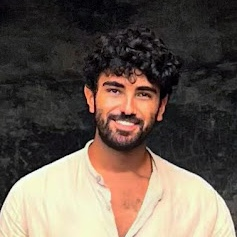
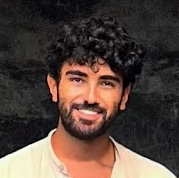
Changed title text and style, add text to FAQ, changed picture sizes.

diff --git a/src/data/faq.ts b/src/data/faq.ts
@@ -3,18 +3,23 @@ import { siteDetails } from "./siteDetails";
 
 export const faqs: IFAQ[] = [
   {
+    question: `What does ${siteDetails.siteName} do exactly?`,
+    answer:
+      "We specialize in partnering with startups that need battery packs. We design and manufacture packs to meet their needs and accelerate their product development.",
+  },
+  {
     question: `Why ${siteDetails.siteName} ?`,
     answer:
-      "We build modular battery packs that fit any form or shape, ditching the generic boxy designs that dominate now. Our immersion-cooled architecture enables faster charging and discharging while acting as a built-in fire suppressant; if a cell fails, heat will not spread to its neighbors, boosting safety. Customers can order online, from a single to 100s of units, by sketching the space and electrical requirements. Our AI-powered design-engine instantly configures, optimizes, and prices a bespoke pack with lead-time.",
+      "We focus on meeting our customers’ specific needs, by delivering battery packs tailored to their unique design requirements, not just generic off-the-shelf solutions. Operating in the North European market, we offer short lead times and a highly responsive service. Our business is built from the ground up to be flexible and scalable, allowing us to adapt quickly and efficiently to varying customer demands. Thanks to our innovative production concept, we can ensure fast delivery, exceptional safety, and high performance, all while maintaining cost-effectiveness.",
   },
   {
     question: `What makes ${siteDetails.siteName} battery pack unique?`,
     answer:
-      "We meet our customer’s need for battery packs that fit their design requirements: to deliver a pack that fits the 			space they have available and not just a generic box. Our innovative production concept also allows rapid delivery, safety and high-performance, while still keeping costs under control. Partnering with an Asian supplier early in the electrification journey is hard. This allows us to build a long-term supplier relationship as their trusted battery pack supplier. The pack must fit the customer's technical requirements, budget, and schedule over their entire product development process.",
+      "We build modular battery packs that fit any form or shape, ditching the generic boxy designs that dominate now. Our immersion-cooled architecture enables faster charging and discharging while acting as a built-in fire suppressant; if a cell fails, heat will not spread to its neighbors, boosting safety.",
   },
   {
-    question: "How does Novex build it’s battery packs?",
-    answer: `It is a secret!`,
+    question: "Is immersion cooling safe and effective?",
+    answer: `Yes, immersion cooling, particularly with Novec is a well-established and reliable method for managing high-performance battery packs. Novec is a non-toxic, fire-suppressing liquid that poses no threat to the ozone layer and has zero global warming potential, making it both safe and environmentally responsible.`,
   },
 ];
 

diff --git a/src/components/Testimonials.tsx b/src/components/Testimonials.tsx
@@ -14,8 +14,8 @@ const Testimonials: React.FC = () => {
                         <Image
                             src={testimonial.avatar}
                             alt={`${testimonial.name} avatar`}
-                            width={50}
-                            height={50}
+                            width={80}
+                            height={80}
                             className="rounded-full shadow-md"
                         />
                         <div className="ml-4">
@@ -23,7 +23,7 @@ const Testimonials: React.FC = () => {
                             <p className="text-sm text-foreground-accent">{testimonial.role}</p>
                         </div>
                     </div>
-                    <p className="text-foreground-accent text-center lg:text-left">&quot;{testimonial.message}&quot;</p>
+                    <p className="text-foreground-accent text-center lg:text-left">{testimonial.message}</p>
                 </div>
             ))}
         </div>

diff --git a/src/components/Hero.tsx b/src/components/Hero.tsx
@@ -25,7 +25,9 @@ const Hero: React.FC = () => {
             </div> */}
 
             <div className="text-center">
-                <h1 className="backdrop-blur-[2px] bg-gradient-to-b text-4xl md:text-6xl md:leading-tight font-bold text-foreground max-w-lg md:max-w-2xl mx-auto">{heroDetails.heading}</h1>
+                <h1 className="whitespace-nowrap backdrop-blur-[2px] bg-gradient-to-b text-3xl md:text-5xl md:leading-tight font-bold text-foreground mx-auto hero-title">
+                    {heroDetails.heading}
+                </h1>
                 <p className="mt-4 text-foreground max-w-lg mx-auto backdrop-blur-[2px] bg-gradient-to-b">{heroDetails.subheading}</p>
                 {/* <div className="mt-6 flex flex-col sm:flex-row items-center sm:gap-4 w-fit mx-auto">
                     <AppStoreButton dark />

diff --git a/src/components/Header.tsx b/src/components/Header.tsx
@@ -53,7 +53,7 @@ const Header: React.FC = () => {
                     {/* Logo */}
                     <span className="flex items-center">
                         <Logo />
-                        <span className="manrope text-xl font-semibold text-foreground cursor-pointer backdrop-blur-[2px] bg-gradient-to-b">
+                        <span className="manrope text-xl font-semibold text-foreground cursor-pointer backdrop-blur-[2px] bg-gradient-to-b ml-2">
                             {siteDetails.siteName}
                         </span>
                     </span>

diff --git a/src/data/hero.ts b/src/data/hero.ts
@@ -1,5 +1,5 @@
 export const heroDetails = {
-  heading: "Innovative Batteries!",
-  subheading: "Powering the Future with Cutting-Edge Energy Solutions!",
+  heading: "Design the Shape, We Power It.",
+  subheading: "Shaping the Future with Cutting-edge Battery Packs",
   centerImageSrc: "/images/hero-mockup.webp",
 };

diff --git a/src/components/logo.tsx b/src/components/logo.tsx
@@ -20,7 +20,7 @@ export function Logo() {
                 className="block dark:hidden cursor-pointer w-auto h-auto"
                 height="70"
                 width="70"
-                sizes="70px"
+                sizes="90px"
                 src="/images/logo-light.png"
             />
 

diff --git a/src/styles/hero.css b/src/styles/hero.css
@@ -1,0 +1,3 @@
+.hero-title {
+  white-space: nowrap;
+}
